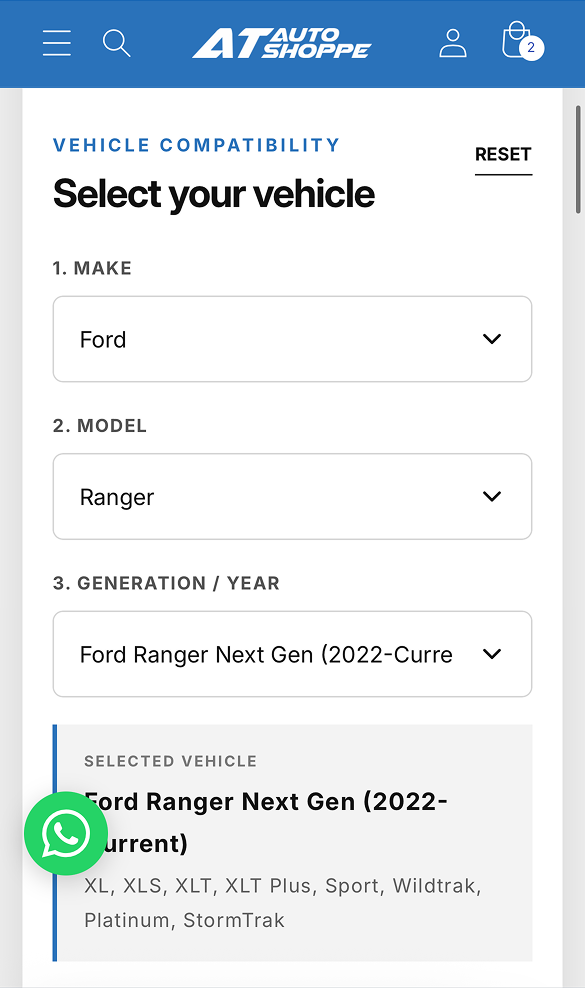
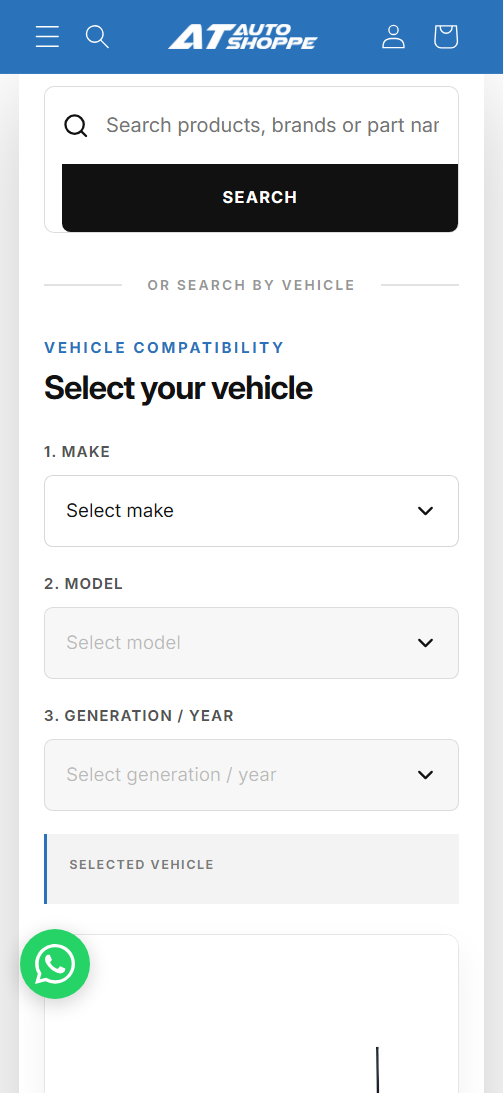
Add home work grid
"See the Work" with a Download CV link, the three case study cards in
frontmatter order (cover, project name, summary on hover or focus) and
short Other Works and Fun cards. From 1200px the home grid shares four
rows across both columns: the 40px light h1 sits on the heading's
baseline and the footer line on the grid's bottom edge. Mobile uses one
two-column grid with the heading in the first cell.

Also adds --text-40, an /other-works index to the page list, and the
recaptured AT Auto Shoppe vehicle-select screenshot.

diff --git a/src/data/site.ts b/src/data/site.ts
@@ -29,6 +29,15 @@ export const contact = {
 
 export const footerLine = 'Designed and built by Ismail Azry with Astro. © 2026';
 
+export const work = {
+	heading: 'See the Work',
+	cv: 'Download CV',
+	more: [
+		{ label: 'Other Works', href: '/other-works' },
+		{ label: 'Fun', href: '/fun' },
+	],
+} as const;
+
 export const intro = {
 	greeting: 'Hello, I’m Azry.',
 	title: 'Product Designer, Web & E-commerce',

diff --git a/src/styles/tokens.css b/src/styles/tokens.css
@@ -29,6 +29,7 @@
 	--text-18: 1.125rem;
 	--text-24: 1.5rem;
 	--text-32: 2rem;
+	--text-40: 2.5rem;
 	--text-48: 3rem;
 	--text-64: 4rem;
 	/* Display h1: 32px at 360px wide, 48px from about 1200px */

diff --git a/portfolio-content/tokens.md b/portfolio-content/tokens.md
@@ -10,14 +10,14 @@
 | text-muted | #424242 | captions, metadata |
 | accent | #B51C1C | links, focus ring |
 | accent-deep | #640F0F | hover and pressed states |
-| pattern-grey | #D9D9D9 | hero band, contact circles |
+| pattern-grey | #D9D9D9 | hero band, contact circles, short cards |
 | pattern-black | #000000 | hero glyph states |
 | pattern-cream | #F7F5F0 | hero glyph states |
 | border | #D6D2CA | dividers |
 ## Type
 - Display: Sora, weights 300 and 700, 48px
 - Body: Inter, weights 400 and 600
-- Scale (px): 14 / 16 / 18 / 24 / 32 / 48 / 64
+- Scale (px): 14 / 16 / 18 / 24 / 32 / 40 / 48 / 64
 - Line height: body 1.6, headings 1.15
 ## Spacing (px)
 4 / 8 / 12 / 16 / 24 / 32 / 48 / 64 / 96 / 128

diff --git a/CLAUDE.md b/CLAUDE.md
@@ -20,6 +20,7 @@ Personal portfolio for "Product Designer, Web & E-commerce | Shopify Design & Bu
 ## Pages
 - `/` home: animated glyph band, intro, three case study cards, Other Works and Fun cards, contact.
 - `/work/[slug]` case studies: AT Auto Shoppe, PlanetStewards, Precious Wedding.
+- `/other-works`: short index listing Atlas IHU and MBFW as cards. Built in the Other Works session.
 - `/other-works/[slug]`: MBFW, Atlas IHU Theme.
 - `/fun`: illustrations and concepts, grid with lightbox.
 - `/about`, CV PDF download, 404.
